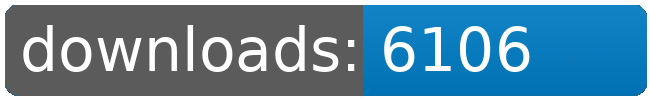
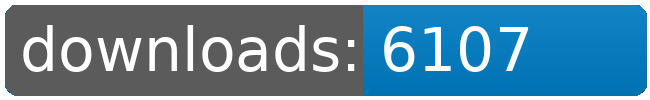
dl log written

Changed region(s): [[0.7692, 0.24, 0.8308, 0.72]]

diff --git a/README.md b/README.md
@@ -21,8 +21,8 @@
 		<td>6014</td>
 		<td>6052</td>
 		<td>6089</td>
-		<td>6106</td>
-		<td>+ 17</td>
+		<td>6107</td>
+		<td>+ 18</td>
 	</tr>
 	<tr>
 		<td>Factory.Outlets</td>
@@ -76,8 +76,8 @@
 		<td>6153</td>
 		<td>6175</td>
 		<td>6195</td>
-		<td>6207</td>
-		<td>+ 12</td>
+		<td>6208</td>
+		<td>+ 13</td>
 	</tr>
 	<tr>
 		<td>Solar.Sails</td>
@@ -109,8 +109,8 @@
 		<td></td>
 		<td></td>
 		<td></td>
-		<td>46805</td>
-		<td>96</td>
+		<td>46807</td>
+		<td>98</td>
 	</tr>
 </table>
 </sub></sup>
@@ -146,8 +146,8 @@
 		<td>6153</td>
 		<td>6175</td>
 		<td>6195</td>
-		<td>6207</td>
-		<td>+ 12</td>
+		<td>6208</td>
+		<td>+ 13</td>
 	</tr>
 	<tr>
 		<td>Bunsen.Burner</td>
@@ -157,8 +157,8 @@
 		<td>6014</td>
 		<td>6052</td>
 		<td>6089</td>
-		<td>6106</td>
-		<td>+ 17</td>
+		<td>6107</td>
+		<td>+ 18</td>
 	</tr>
 	<tr>
 		<td>Korunak.Defense.Drones</td>
@@ -223,8 +223,8 @@
 		<td></td>
 		<td></td>
 		<td></td>
-		<td>46805</td>
-		<td>96</td>
+		<td>46807</td>
+		<td>98</td>
 	</tr>
 </table>
 </sub></sup>